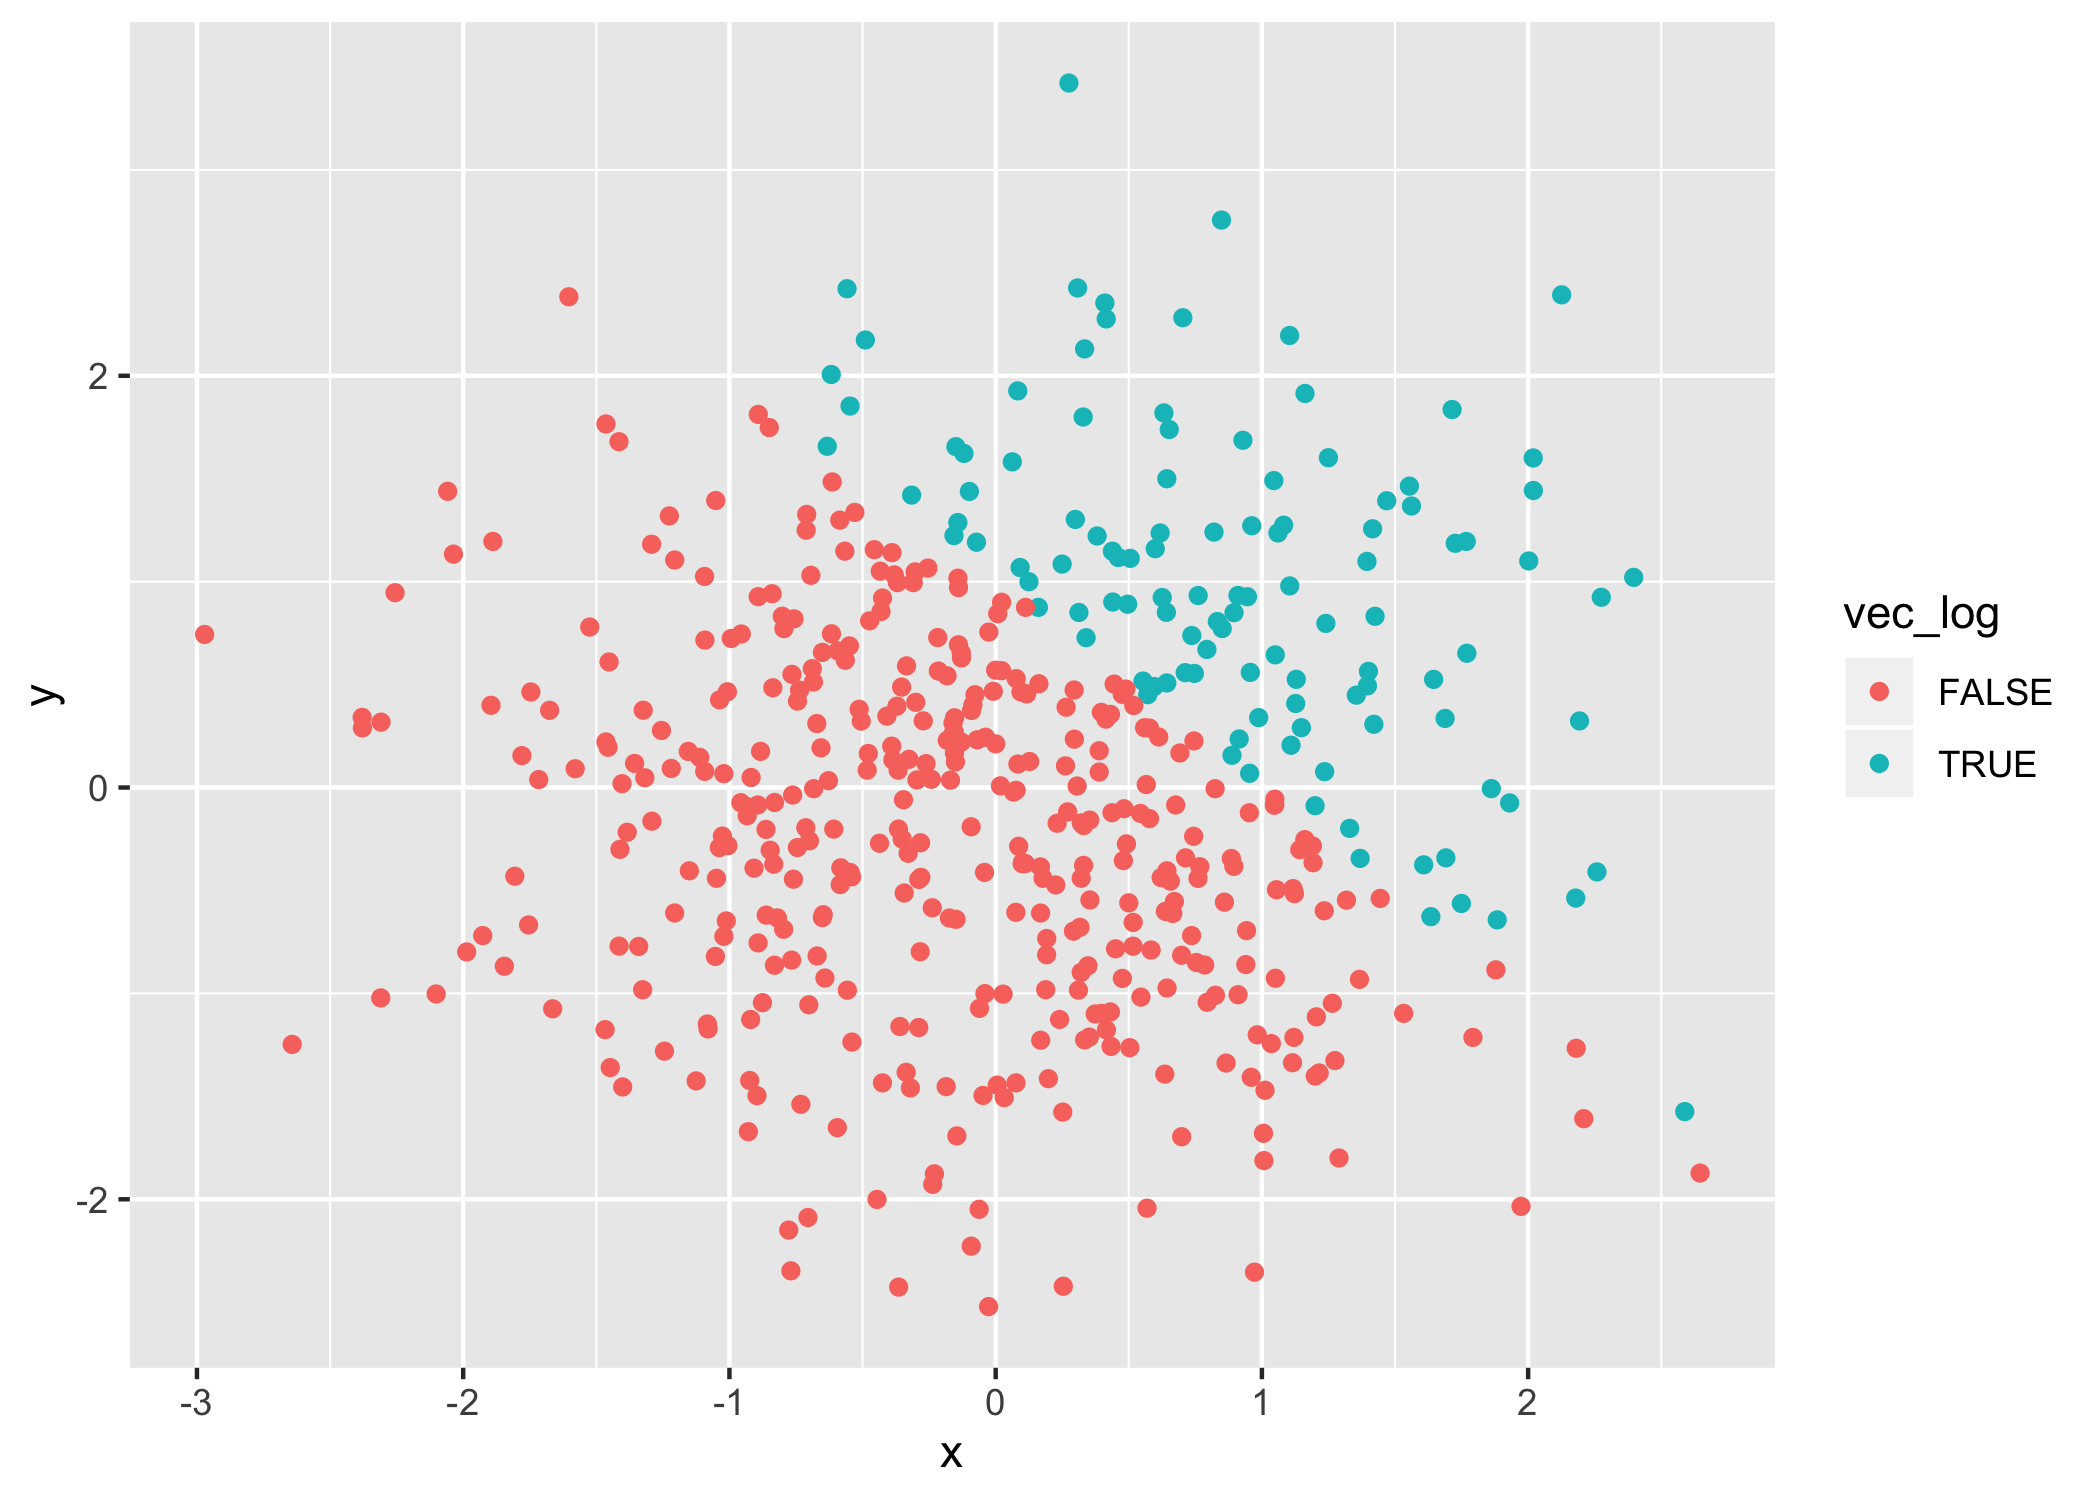
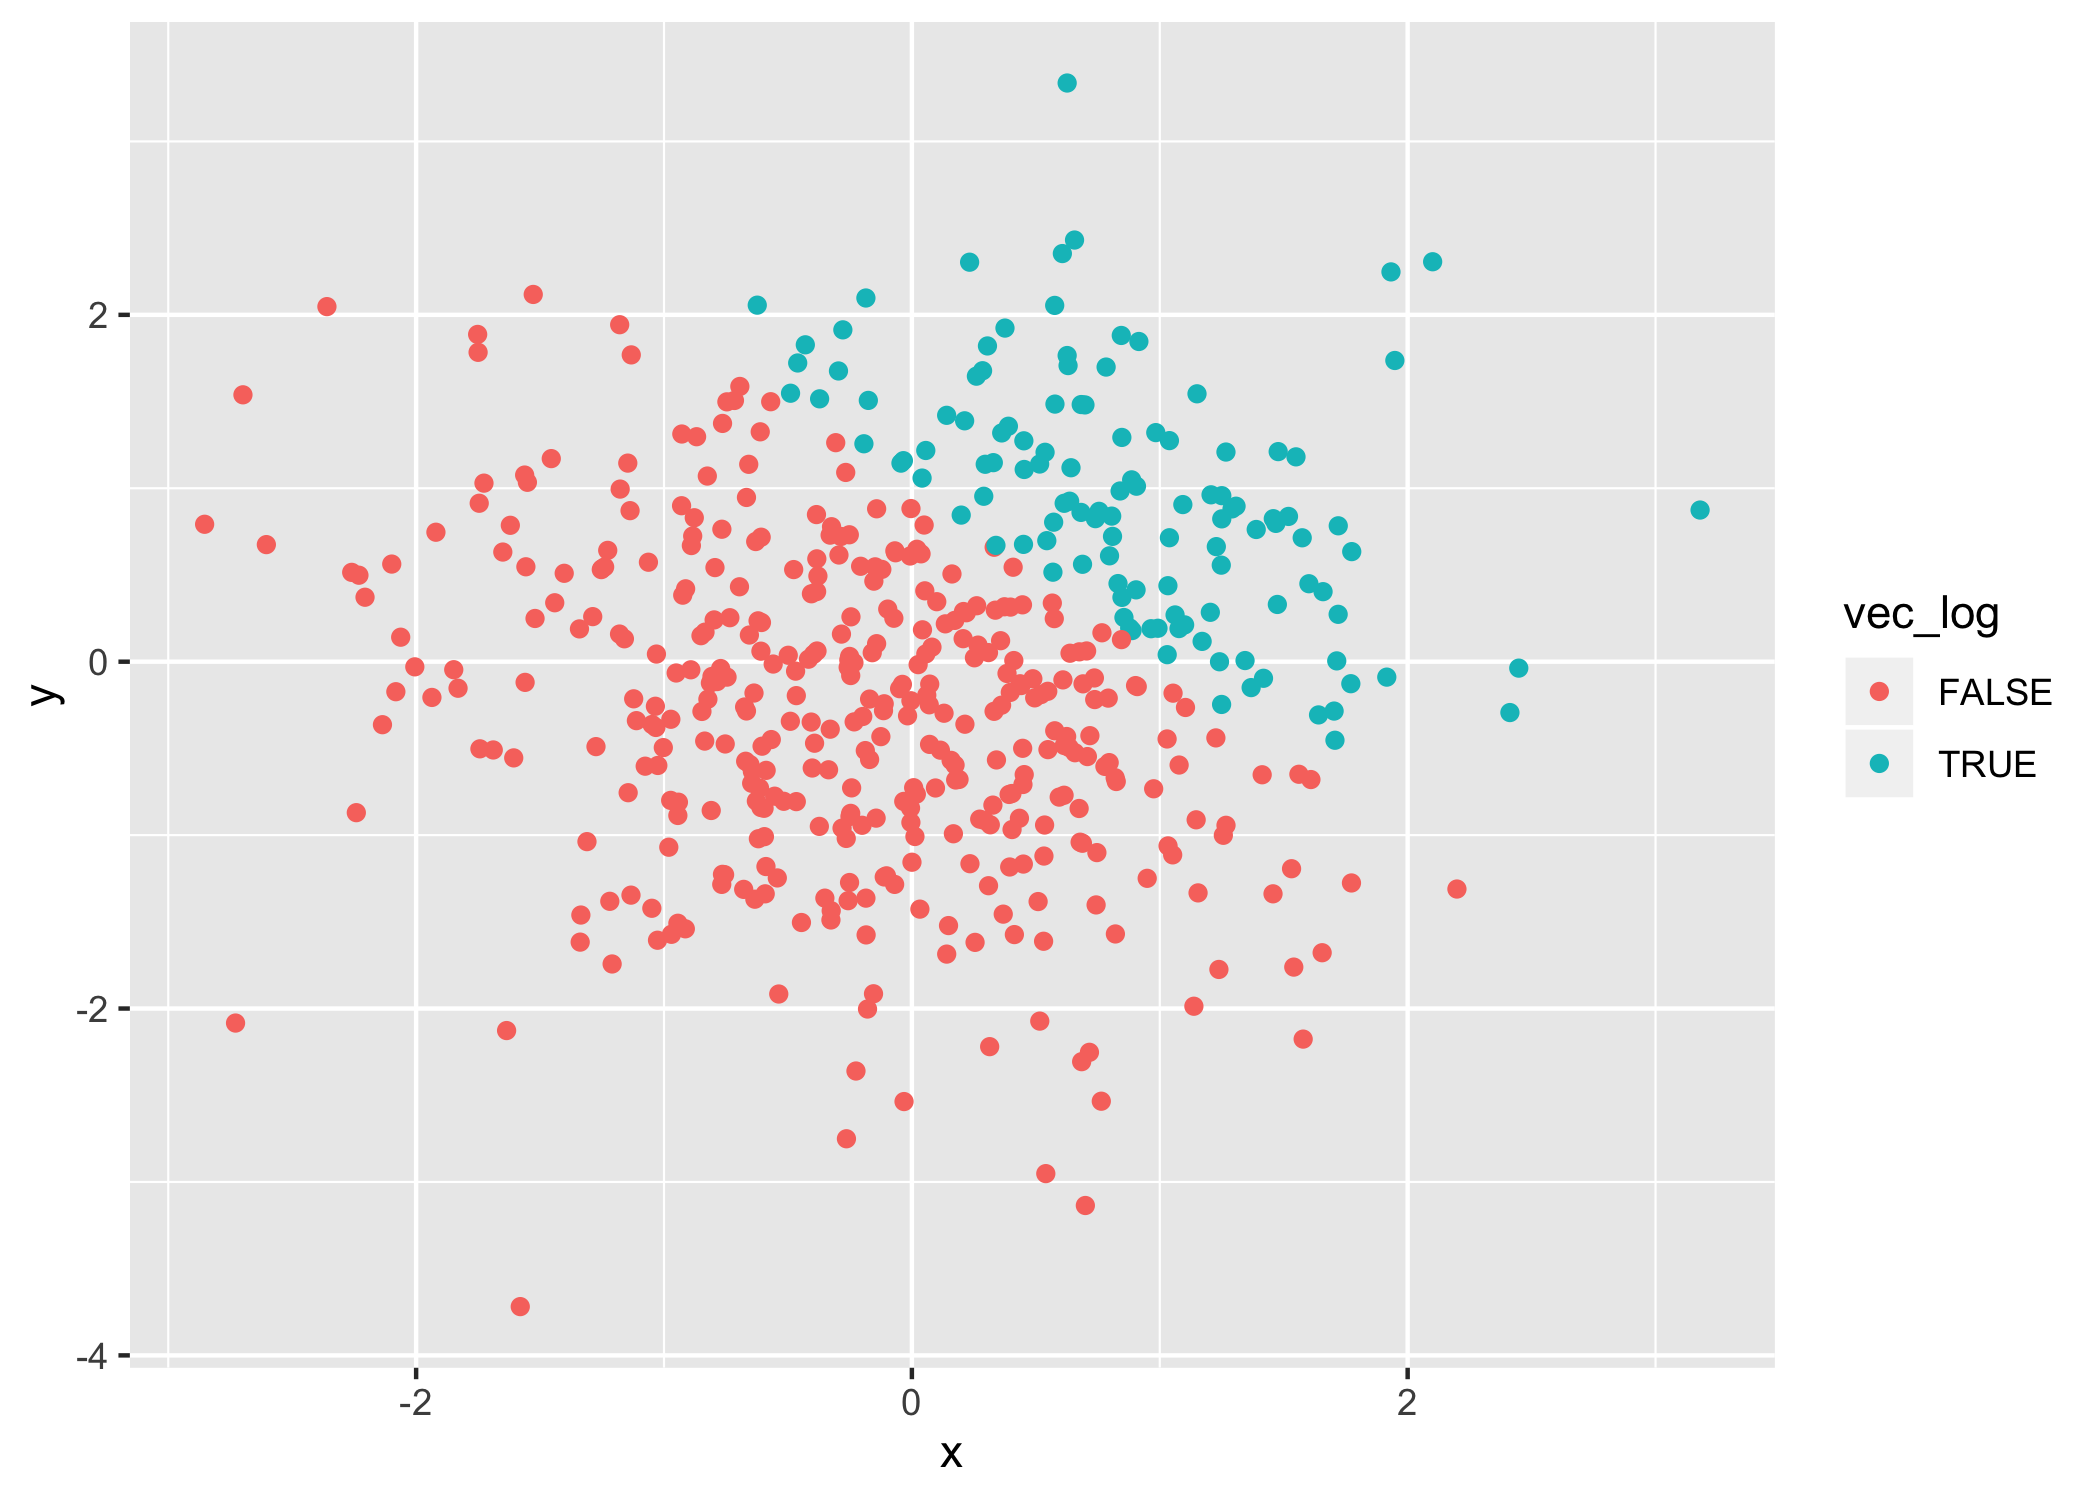
Updated problem 1 and 2.

diff --git a/p8105_hw1_mp3745.md b/p8105_hw1_mp3745.md
@@ -13,7 +13,7 @@ library(tidyverse)
 ``` r
 # Create first dataframe
 prob1_df <- tibble(
-  norm_samp = rnorm(8, mean = 8),
+  norm_samp = rnorm(8),
   norm_samp_pos = norm_samp > 0,
   vec_char = c("a", "b", "c", "d", "e", "f", "g", "h"),
   vec_factor = factor(c("burrito", "quesadilla", "tacos", "burrito", "burrito", "tacos", "tacos", "tacos"))
@@ -23,14 +23,14 @@ prob1_df <- tibble(
 mean(pull(prob1_df, norm_samp))
 ```
 
-    ## [1] 8.561897
+    ## [1] -0.5903795
 
 ``` r
 # See if mean can be calculated for norm_samp_pos in prob1_df
 mean(pull(prob1_df, norm_samp_pos))
 ```
 
-    ## [1] 1
+    ## [1] 0.375
 
 ``` r
 # See if mean can be calculated for vec_char in prob1_df
@@ -66,19 +66,20 @@ as.numeric(pull(prob1_df, vec_char))
 as.numeric(pull(prob1_df, vec_factor))
 ```
 
-In the logical vector, all the “TRUE”s were converted into 1’s. In both
-the character and factor vector, everything was converted to “NA”. This
-explains how we were able to calculate a mean for the logical vector,
-but not the character or factor
-vector.
+In the logical vector, all the “TRUE”s were converted into 1’s. In the
+character vector, everything was converted to “NA”. In the factor
+vector, the factors were converted to their numerical levels. This
+explains how we were able to calculate a mean for the logical vector and
+factor vector, but not the
+character.
 
 ``` r
 # Convert the logical vector to numeric, and multiply the random sample by the result
 as.numeric(pull(prob1_df, norm_samp_pos)) * pull(prob1_df, norm_samp)
 ```
 
-    ## [1]  9.187469  8.933997  8.528551  7.908096  9.215133  7.021974 10.222140
-    ## [8]  7.477816
+    ## [1] 0.1605866 0.0000000 0.0000000 0.0000000 0.1415738 0.0000000 0.0000000
+    ## [8] 0.8886598
 
 ``` r
 # convert the logical vector to a factor, and multiply the random sample by the result
@@ -96,8 +97,8 @@ factor(pull(prob1_df, norm_samp_pos)) * pull(prob1_df, norm_samp)
 as.numeric(factor(pull(prob1_df, norm_samp_pos))) * pull(prob1_df, norm_samp)
 ```
 
-    ## [1]  9.187469  8.933997  8.528551  7.908096  9.215133  7.021974 10.222140
-    ## [8]  7.477816
+    ## [1]  0.3211731 -0.3422241 -1.8090500 -1.2031575  0.2831476 -0.2428372
+    ## [7] -2.3165874  1.7773196
 
 # Problem 2
 
@@ -113,19 +114,33 @@ prob2_df <- tibble(
 ```
 
 The above dataframe (prob2\_df) has 500 rows and 5 columns. The mean of
-x is 0.0427266. The median of x is 0.0473654. The standard deviation of
-x is 0.9743441. In addition, the proportion of cases in which x + y \> 1
-is 0.228.
+x is -9.35182810^{-4}. The median of x is 0.0190102. The standard
+deviation of x is 0.9561032. In addition, the proportion of cases in
+which x + y \> 1 is 0.24.
 
 ``` r
 # Scatterplot of y vs x by vec_log from prob2_df
 scat_plot_log <- ggplot(prob2_df, aes(x = x, y = y, color = vec_log)) +
   geom_point()
 
+# View scatterplot
+scat_plot_log
+```
+
+![](p8105_hw1_mp3745_files/figure-gfm/unnamed-chunk-6-1.png)<!-- -->
+
+``` r
 # Scatterplot of y vs x by vec_num from prob2_df
 scat_plot_num <- ggplot(prob2_df, aes(x = x, y = y, color = vec_num)) +
   geom_point()
 
+# View scatterplot
+scat_plot_num
+```
+
+![](p8105_hw1_mp3745_files/figure-gfm/unnamed-chunk-6-2.png)<!-- -->
+
+``` r
 # The color scale in the above plot is a sliding scale from blue (vec_num = 1) to black (vec_num = 0), 
 # but there are only two distinct colors because vec_num only has two values (0 and 1).
 
@@ -133,6 +148,13 @@ scat_plot_num <- ggplot(prob2_df, aes(x = x, y = y, color = vec_num)) +
 scat_plot_fac <- ggplot(prob2_df, aes(x = x, y = y, color = vec_fac)) +
   geom_point()
 
+# View scatterplot
+scat_plot_fac
+```
+
+![](p8105_hw1_mp3745_files/figure-gfm/unnamed-chunk-6-3.png)<!-- -->
+
+``` r
 # The color scale in the above plot is the same as when coloring by the logical vector. The factor 
 # vector only has two values (True or False).
 
